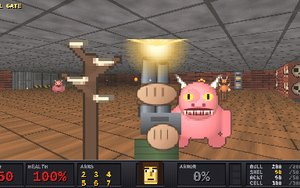
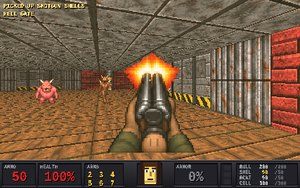
Hellbyte 93: integrate upgraded DOS art pack (runtime PNG loader, procedural fallback), new thumbnail and preview
Claude-Session: https://claude.ai/code/session_01NC2RHm53inUCVdMCKh9gjY

diff --git a/games/cartridges/hellbyte-93.html b/games/cartridges/hellbyte-93.html
@@ -807,6 +807,31 @@ function renderFrame(){gT=performance.now()/1000;
  render3D();ctx.putImageData(frameImg,0,0);
  if(mode!=='dead'&&!automap)drawWeapon();drawOverlays();if(automap)drawAutomap();drawHUD();drawTouch();
  if(mode==='dead')drawDead();if(mode==='pause')drawPause()}
+// ---------- external art pack (hb93/*.png) overrides the procedural fallback art
+const ART='hb93/';
+function ldImg(p){return new Promise(r=>{const i=new Image();i.onload=()=>r(i);i.onerror=()=>r(null);i.src=ART+p})}
+function imgPix(i,w,h){const c=document.createElement('canvas');c.width=w;c.height=h;const g=c.getContext('2d',{willReadFrequently:true});g.imageSmoothingEnabled=false;g.drawImage(i,0,0,w,h);return g.getImageData(0,0,w,h).data}
+const packC=(r,g,b,e)=>(((e?254:255)<<24)|(b<<16)|(g<<8)|r)>>>0;
+function artSpr(s,img,em){if(!img)return;const w=s.w,h=s.h,d=imgPix(img,w,h),o=new Uint32Array(w*h);for(let i=0;i<w*h;i++){if(d[i*4+3]<128)continue;const r=d[i*4],g=d[i*4+1],b=d[i*4+2];o[i]=packC(r,g,b,em&&em(r,g,b))}s.d=o}
+function artTex(img,w,h,col,em){const d=imgPix(img,w,h),o=new Uint32Array(w*h);for(let y=0;y<h;y++)for(let x=0;x<w;x++){const i=(y*w+x)*4,r=d[i],g=d[i+1],b=d[i+2];o[col?x*h+y:y*w+x]=packC(r,g,b,em&&em(r,g,b))}return o}
+async function loadArt(){
+ try{const jobs=[];
+ const WN={1:'brick',2:'tech_panel',3:'hellstone',4:'green_marble',5:'metal',6:'door',7:'door_red',8:'door_blue',9:'door_yellow',10:'exit_off',11:'switch',12:'computer',13:'skulls',14:'wood',15:'blue_stone',16:'pipes',17:'hazard',18:'exit_on',19:'red_brick',20:'blue_tech_panel'};
+ const wem={3:(r,g,b)=>r>205&&g>70&&b<70,12:(r,g,b)=>g>190&&r<200&&b<170,18:()=>true};
+ for(const k in WN)jobs.push(ldImg('textures/walls/'+String(k).padStart(2,'0')+'_'+WN[k]+'.png').then(i=>{if(i)WT[k]=artTex(i,64,64,true,wem[k])}));
+ const FN={0:'concrete',1:'grate',2:'flesh',5:'marble',6:'plank',7:'diamond_plate',8:'ash'};
+ for(const k in FN)jobs.push(ldImg('textures/floors/'+k+'_'+FN[k]+'.png').then(i=>{if(i)FT[k]=artTex(i,64,64,false)}));
+ for(let f=0;f<4;f++){jobs.push(ldImg('textures/floors/3_lava_'+f+'.png').then(i=>{if(i)FT[3][f]=artTex(i,64,64,false,()=>true)}));jobs.push(ldImg('textures/floors/4_slime_'+f+'.png').then(i=>{if(i)FT[4][f]=artTex(i,64,64,false)}))}
+ const CN={0:'tile',1:'light_panel',2:'hell',4:'metal'};
+ for(const k in CN)jobs.push(ldImg('textures/ceilings/'+k+'_'+CN[k]+'.png').then(i=>{if(i)CT[k]=artTex(i,64,64,false,k==1?(r,g,b)=>r+g+b>690:null)}));
+ jobs.push(ldImg('textures/sky_hell.png').then(i=>{if(i){const o=artTex(i,256,64,false);SKY.set(o)}}));
+ for(const m in SP.mon)for(const f in SP.mon[m])jobs.push(ldImg('sprites/monsters/'+m+'/'+f+'.png').then(i=>artSpr(SP.mon[m][f],i)));
+ for(const k in SP.fx)SP.fx[k].forEach((s,i)=>jobs.push(ldImg('sprites/effects/'+k+'_'+i+'.png').then(im=>artSpr(s,im,k==='blood'||k==='puff'?null:()=>true))));
+ for(const k in SP.item)jobs.push(ldImg('sprites/items/'+k+'.png').then(i=>artSpr(SP.item[k],i)));
+ const dem={torch:(r,g,b)=>r>200&&g>110&&b<170,cand:(r,g,b)=>r>200&&g>110&&b<170,lamp:(r,g,b)=>r>225&&g>225&&b>170};
+ for(const k in SP.dec){const v=SP.dec[k];if(Array.isArray(v))v.forEach((s,i)=>jobs.push(ldImg('sprites/decor/'+k+'_'+i+'.png').then(im=>artSpr(s,im,dem[k]))));else jobs.push(ldImg('sprites/decor/'+k+'.png').then(im=>artSpr(v,im,dem[k])))}
+ for(const k in WS)for(const f of['idle','fire','punch'])if(WS[k][f])jobs.push(ldImg('weapons/'+k+'_'+f+'.png').then(im=>{if(im){const[c,g]=mkc(160,120);g.drawImage(im,0,0);WS[k][f]=c}}));
+ await Promise.all(jobs);window.__artLoaded=true}catch(e){console.warn('art pack failed',e)}}
 // ---------- main: input, menus, loop
 const GID='hellbyte-93.html',DKEY='rwDifficulty:'+GID,DNAMES=['easy','normal','hard','nightmare'];
 try{const v=localStorage.getItem(DKEY);const i=DNAMES.indexOf(v);if(i>=0)diff=i;if(localStorage.getItem('retroWorldSFX')==='off')muted=true}catch(e){}
@@ -876,7 +901,7 @@ function frame(now){const dt=Math.min(.066,(now-last)/1000);last=now;pollPad();
  requestAnimationFrame(frame)}
 function fit(){const w=innerWidth,h=innerHeight,k=Math.min(w/RW,h/RH);cv.style.width=Math.floor(RW*k)+'px';cv.style.height=Math.floor(RH*k)+'px'}
 addEventListener('resize',fit);fit();
-buildTextures();buildSprites();buildTitleMenu();syncState();
+buildTextures();buildSprites();loadArt();buildTitleMenu();syncState();
 window.HB={addMon,renderFrame,render3D,drawHUD,get decorMask(){return decorMask},hasLOS,blockedAt,solidCell,startLevel,startNew,get P(){return P},get ents(){return ents},get mode(){return mode},set mode(v){mode=v;syncState()},get LV(){return LV},get fxs(){return fxs},get projs(){return projs},nextLevel,pause,useAction,tryFire,hurt,explode,get diff(){return diff},set diff(v){diff=v},set automap(v){automap=v},keys,dmgMon,bfs,get wall(){return wall},get doors(){return doors},get score(){return score},updateWorld};
 requestAnimationFrame(frame);
 const RETRO_LOCAL_STATS=(()=>{
